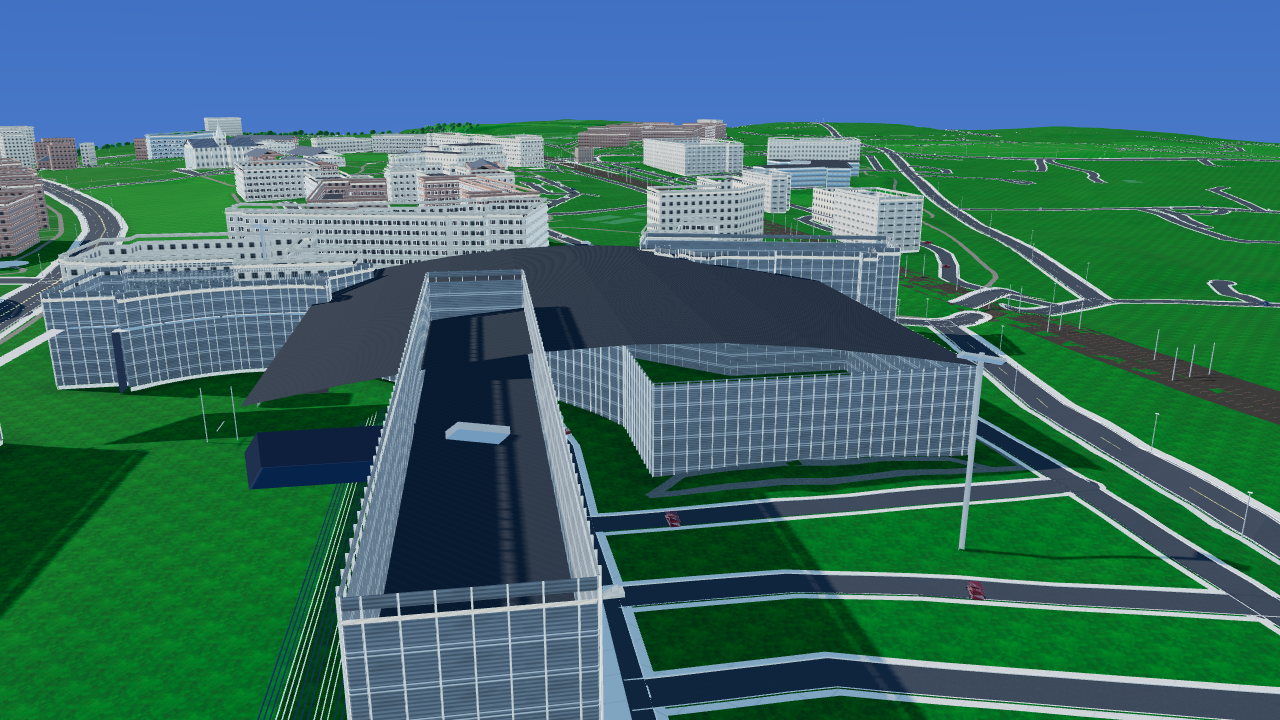
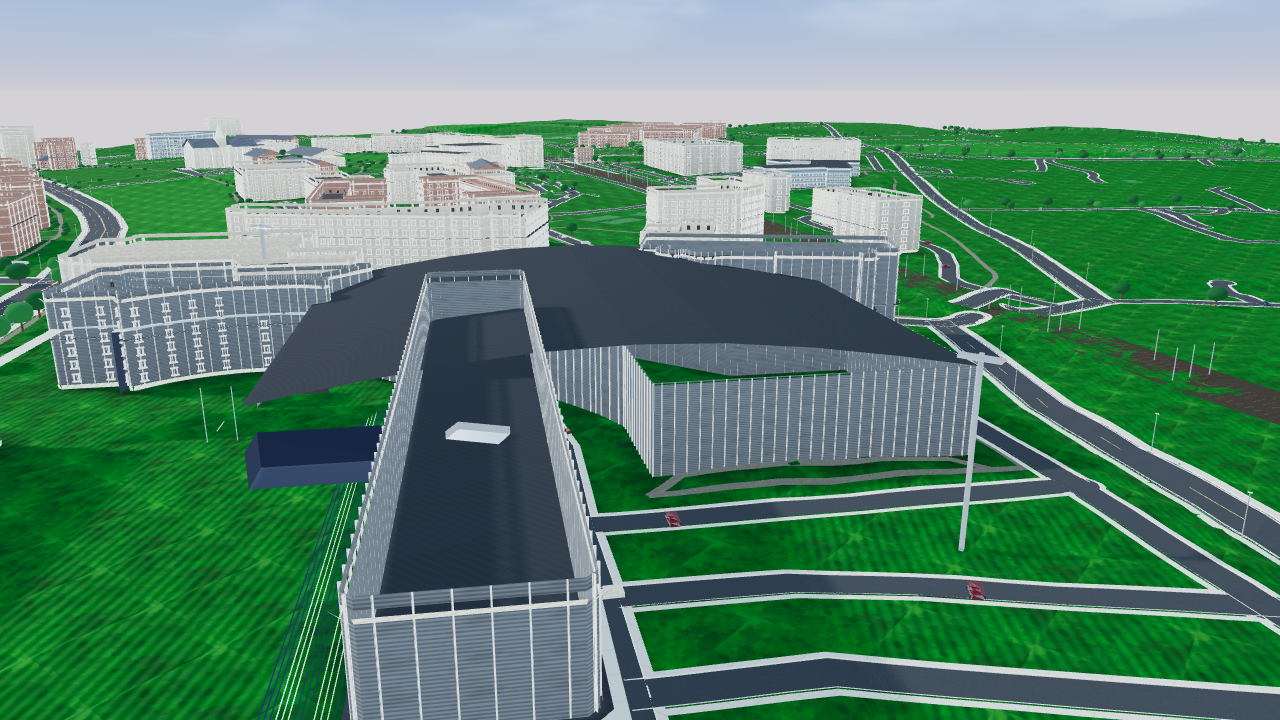
Reshoot the presets after bays, trees, and the hazy sky.
The after stills show modelled window frames, verge trees, walk-scale grass, and a clouded horizon. The notes stay short of calling this a game-engine scene.

diff --git a/docs/qa/VISUAL.md b/docs/qa/VISUAL.md
@@ -5,10 +5,11 @@ Compared with the maquette that was live before this branch. Before stills are t
 ## What changed
 
 - **Roads.** Each OSM centerline is a cross-section: asphalt, curbs, sidewalks, shoulders on the expressway, edge lines, and a double-yellow or dashed center where the class calls for it. Intersections get asphalt discs so junctions are not grass. Paths stay gravel. The rail corridor is ballast, ties, rails, and catenary poles. Ambient cars sit on the asphalt, offset into a lane or the curb.
-- **Buildings.** Footprints are walled with a plinth, shaft, cornice, and parapet, or a hip/gable when the ring is close to a rectangle (dorms, houses, gothic halls). One texture repeat is one bay and one floor, and the sill, mullion, and glass pane are real boxes on that grid. St. Thomas of Villanova is a buttressed nave, a gabled roof, and a central spire to the tagged tip. Falvey steps back over a south portico. The law school is a glass bar with a roof overhang. Finneran Pavilion is ribbed metal with a barrel roof. Villanova Stadium is a seating bowl, marked field, goals, and four light towers on the mapped inner field, not a window-textured extrusion of the outer ring.
-- **Ground.** The DEM is still what walk mode stands on. The visible lawn is an ordinary mesh with a green albedo, a repeating grass texture, and vertex colors for mottling, path dirt, and contact darkening. A few centimetres of height variation are applied on the CPU and flattened on pavement. There is no custom grass shader: an earlier one failed to draw and left the clear color, which read as a blue void.
+- **Buildings.** Brick and stone walls are masonry only. The opening is a modelled bay: glass set back, a projecting sill, head, and jambs, plus a mullion. Long walls get piers and corner quoins. Cornices and flat roofs overhang the wall; simple rectangles get a hip or gable with an eave. St. Thomas of Villanova is a buttressed nave with pointed bays, a south portal and rose, a gabled roof, and a central spire. Falvey steps back over a south portico. The law school is a glass curtain wall with a roof overhang. Finneran Pavilion is ribbed metal with a barrel roof. Villanova Stadium is a seating bowl, marked field, goals, and four light towers, not a windowed extrusion of the outer ring.
+- **Ground.** The DEM is still what walk mode stands on. The lawn mesh uses a green albedo, a large soft grass texture (no blade-stroke tile), and vertex colors for broad patches, path dirt, and darker contact along walls. A few decimetres of height variation flatten on pavement. Near the core, crossed grass cards add blades at walk distance. There is no custom grass shader: an earlier one failed to draw and left the clear color.
+- **Trees.** Instanced canopies and trunks line Lancaster, collectors, and residential streets, with shrubs and smaller trees along paths inside the core, and a ring around the quad. The south sightline to the church is kept clear. Canopies cast shadows. They are simple lit meshes, not scanned trees.
 - **Cameras.** The church preset stands due south of St. Thomas, close enough that the nave and spire fill the frame. The open-lawn anchor used for the quad sits on the same line as Tolentine Hall, so a camera placed there looks through the church at Tolentine. `scripts/audit-cameras.mjs` projects both buildings and fails if Tolentine is nearer the screen center than St. Thomas, if the spire is cropped, or if the church does not fill the frame. It also replays that rejected bearing and requires the replay to fail. Lancaster looks along the avenue. Walk starts just north of that stretch, eye height 1.68 m on the DEM. The stadium camera looks down into the bowl.
-- **Light.** Default hour is 15:09. The shadow map follows the camera target instead of a ±900 m box. Sky is a blue zenith over a pale horizon, with fog thin enough that distant lawns stay green. There is no SSAO and no god-ray pass; contact shadow is the cornices, curbs, and the ground mask.
+- **Light.** Default hour is 15:09. The sun is paired with a hemisphere and a cool fill so stone and brick are not a single hard wash. Shadows use a soft PCF radius and follow the camera target. The sky is a pale horizon, a lighter zenith, a dust band, and a few procedural clouds, with light fog so the aerial view is not a model on a flat blue sheet. There is no SSAO and no god-ray pass.
 
 ## Stills
 
@@ -26,10 +27,10 @@ Compared with the maquette that was live before this branch. Before stills are t
 
 ## Still short of a game-engine campus
 
-This is still a web model of OSM rings, not a surveyed mesh.
+This is still a web model of OSM rings, not a surveyed mesh, and not an Unreal scene.
 
-- Secondary halls share a few families. An L-shaped footprint keeps a flat roof so a gable does not float off the wings. They read as buildings with bays and a cornice, not as unique masonry.
-- There is no screen-space AO, no volumetric light, and no photogrammetry. Depth comes from modeled reveals, curbs, and a shadow map.
-- The church nave is 16.5 m and the modeled spire is 34 m so the steeple clears the roof. The OSM height tag is about 30 m and is shorter than the real steeple. Window tracery is a repeated bay, not carved stone.
-- Grass displacement is small on purpose so it does not fight the curbs. Close up it is mottled ground, not individual blades.
-- Cars are ambient. They are not a live traffic feed.
+- Secondary halls share a few families. An L-shaped footprint keeps a flat roof so a gable does not float off the wings. Bays repeat inside a family. They are modelled frames on masonry, not unique carved stone.
+- There is no screen-space AO and no photogrammetry. Depth comes from the bays, cornices, curbs, tree shadows, and the ground mask.
+- The church nave is 16.5 m and the modeled spire is 34 m so the steeple clears the roof. The OSM height tag is about 30 m and is shorter than the real steeple.
+- Grass cards cover the core walks and the quad, not the whole extract. Farther lawn is shaded ground with a soft texture.
+- Trees are instanced spheres and cylinders. Cars are ambient scenery, not a live traffic feed.

diff --git a/README.md b/README.md
@@ -10,10 +10,10 @@ This is **not** photogrammetry, **not** a scan, and **not** an official Villanov
 
 - **Halls with massing**, not flat extrusions: stone, brick, limestone, and glass families, cornices, sills, and pitched roofs where the footprint is a simple block. St. Thomas of Villanova Church has a buttressed nave, gabled roof, and central spire. Falvey steps back above a portico. The law school reads as a glass bar. Finneran Pavilion has a barrel roof. Villanova Stadium is a seating bowl around the mapped field.
 - **Roads**: asphalt, curbs, sidewalks, and lane markings. Lancaster Avenue (trunk), campus drives, and intersections are paved. Cars and people are ambient scenery on those surfaces, not live traffic.
-- **Lawns** with a green albedo, mottling, dirt along paths, contact darkening at walls, and a low grass displacement that flattens under pavement so walk mode still follows the DEM.
+- **Lawns** with a green albedo, multi-scale mottling, dirt along paths, contact darkening at walls, short grass cards near the core, and a low displacement that flattens under pavement so walk mode still follows the DEM. Trees line Lancaster, the quad, and major paths.
 - **Rail corridor** as ballast, ties, rails, and catenary poles, plus the station platform. No trains and no GTFS.
 - **Landmark labels** and camera presets: Aerial · Quad · Church · Stadium · Library · Pavilion · Station · Lancaster · Rotate
-- **Afternoon sun** by default (about 15:09), soft shadows, a blue sky, and a night path with window glow
+- **Afternoon sun** by default (about 15:09), a fill light, soft shadows, a pale horizon with light clouds, and a night path with window glow
 - **Walk mode**: WASD / arrows, Shift to run, drag to look, Esc to leave. Touch devices get a pad. `?view=walk` starts on Lancaster Avenue looking toward the church. Walking follows the terrain and stops at building footprints. Interiors, the stadium stands, and bridge decks are not modeled as walkable spaces
 
 ## Run locally
@@ -55,7 +55,7 @@ npm run verify
 
 Sources: [OpenStreetMap contributors](https://www.openstreetmap.org/copyright), © OpenStreetMap, [ODbL](https://opendatacommons.org/licenses/odbl/). Elevation tiles: [AWS terrain tiles](https://registry.opendata.aws/terrain-tiles/) / USGS 3DEP. Each landmark in the JSON keeps its OSM id.
 
-Facades, asphalt, roofs, and the field are procedural canvases written for this project (albedo, normal, roughness). The approach follows the Pittsburgh recreation’s painted-bay textures. No purchased texture packs.
+Facades, asphalt, roofs, grass, and the field are procedural canvases written for this project (albedo, normal, roughness). Openings are geometry, not a painted window grid. No purchased texture packs.
 
 ## What this is not
 

diff --git a/docs/qa/NOTES.md b/docs/qa/NOTES.md
@@ -18,15 +18,15 @@ Compared with the first Pages maquette (gray sky, one facade tint, camera preset
 
 | Still | What it should show |
 | --- | --- |
-| `aerial.png` | Blue sky over the core campus, saturated lawns, distinct halls, the stadium bowl toward the east |
-| `quad.png` | Church spire from the open lawn south of the church, people on the walks |
-| `church.png` | Gothic nave, tower, and cross, with arched windows |
+| `aerial.png` | Pale horizon and clouds over green lawns, trees, and distinct halls; the stadium bowl toward the east |
+| `quad.png` | Church spire across an open lawn edged with trees, people on the walks |
+| `church.png` | Gothic nave, pointed bays, south rose, buttresses, and the spire, from due south |
 | `stadium.png` | Navy fascia, striped seats, green field, goal posts, corner lights |
-| `library.png` | Falvey’s stone block and large bays, whole building in frame |
-| `pavilion.png` | Finneran Pavilion’s dark mass and navy/white band |
+| `library.png` | Falvey’s stone block, portico, and deep bays, whole building in frame |
+| `pavilion.png` | Finneran Pavilion’s ribbed mass and barrel roof |
 | `station.png` | Station building and canopy, with ballast in front of the platform |
-| `lancaster.png` | Lancaster Avenue with ambient cars; lawn in the foreground |
-| `walk.png` | First person on the Main Quad lawn, church ahead, people on the path |
+| `lancaster.png` | Lancaster Avenue with cars, verge trees, and a brick hall whose windows are frames, not a painted grid |
+| `walk.png` | Eye height on the lawn, grass cards and a dirt path, brick bays, trees, church ahead |
 
 ## Checks that passed with these stills
 
